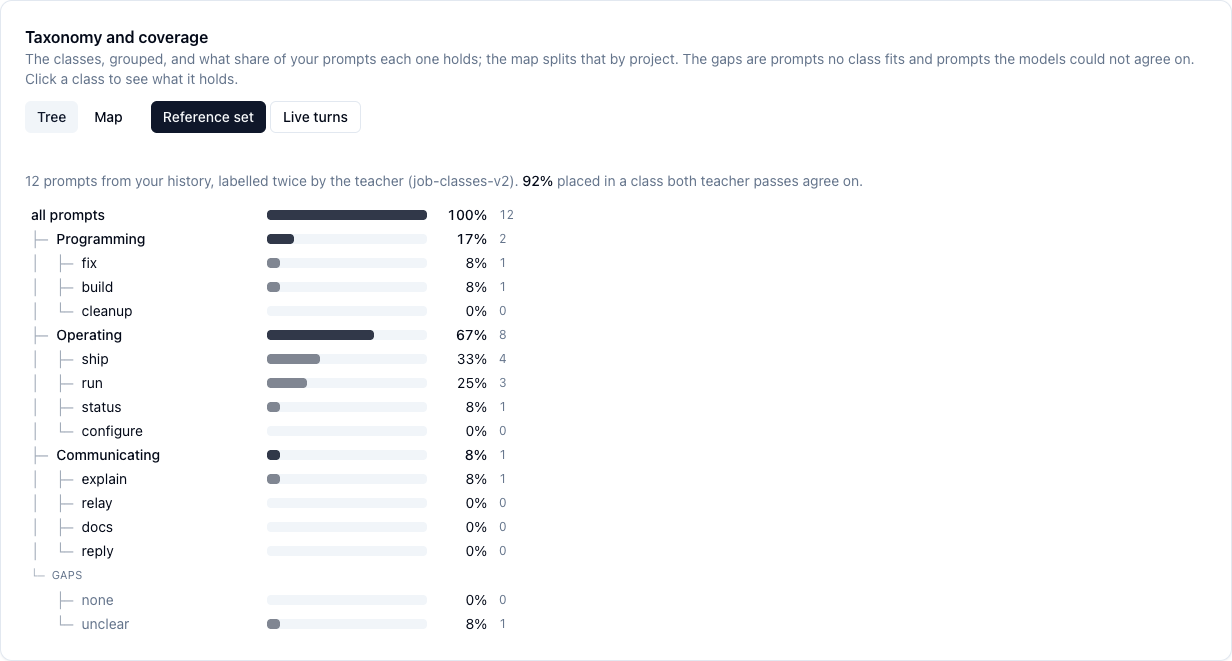
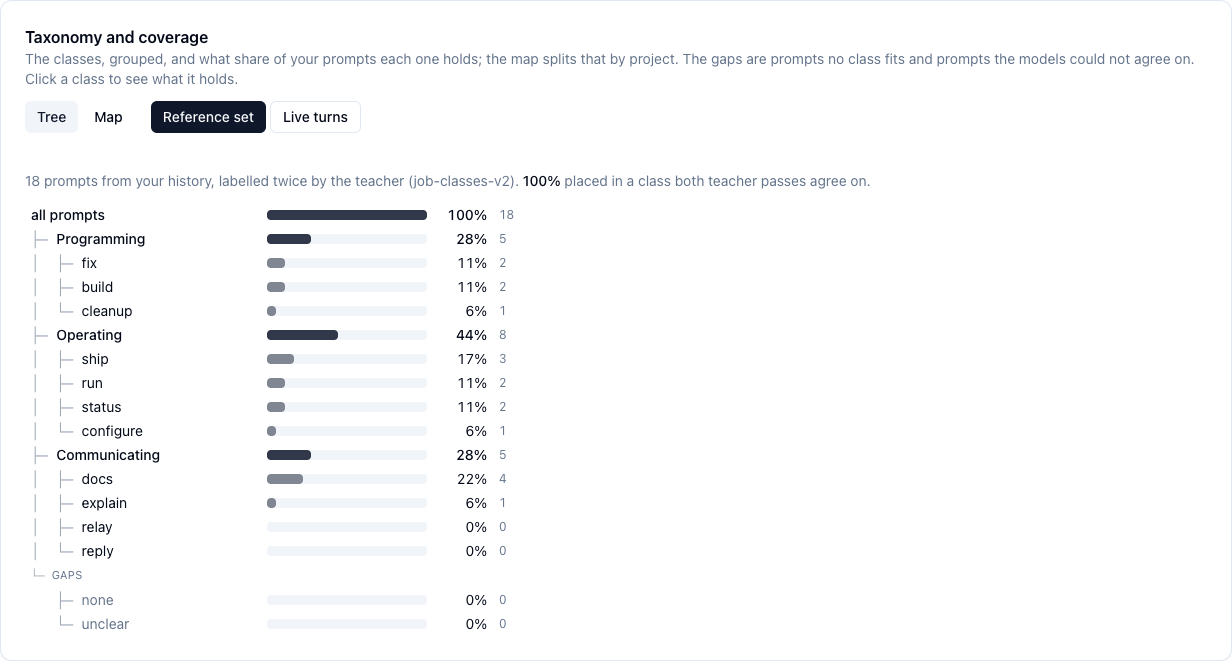
docs(glass): job-classes tutorial, deck slides, glass vs coding
- Tutorial: Job Classes (new Tutorials nav group): switch labelling on, try
  the account, measure, read tree / class / map, the gate, join a team — one
  screenshot per step, taken on a scratch daemon with 18 made-up prompts and a
  real measurement; tenant and repo names replaced.
- Overview deck: two slides after offload — kinds of job, and trials as the
  evidence before a cheaper model (glass reads, coding runs and routes).
- Job Classes: a glass-and-coding table; deep dive gains "For a team's
  maintainer" and "Why glass does not route by class".
- Token Usage: Trials are read-only and only on a machine that also runs coding.

diff --git a/glass/overlay/docs/tutorial-job-classes.md b/glass/overlay/docs/tutorial-job-classes.md
@@ -1,0 +1,146 @@
+# Tutorial: Job Classes
+
+Find out what kind of work you give your agents, in about 15 minutes. You switch labelling
+on, measure your recent prompts, read the result, and join your team's classes. Every
+screenshot below was taken on a test machine with 18 made-up prompts in two projects,
+`shop-api` and `docs-site`. Your own numbers will differ.
+
+**You need:** glass running (`glass doctor` shows ✓), and `gh` logged in to the GitHub host
+of your Copilot account (`gh auth status`). Labelling uses that account, a little per turn.
+
+## 1. Open the Classes tab
+
+```sh
+glass ui
+```
+
+Go to **Token Usage → Classes**. The first card, **Labelling on this machine**, starts off:
+glass sends nothing anywhere until you tick the box.
+
+![Labelling on this machine, switched off: the Copilot account, the student and teacher models, the teacher's share and the Try the account button](images/ui-job-classes-settings.png)
+
+| Field | What it means |
+|---|---|
+| **Copilot account** | Where the labels are asked for: your own Copilot account, on the host your `gh` login reaches. |
+| **Student · teacher** | The cheap model that labels every turn, and the strong one that re-checks some of them. |
+| **Teacher re-checks** | The share of turns the teacher checks too. The gate (step 5) is counted from these. |
+
+## 2. Try the account, then switch labelling on
+
+Click **Try the account**. glass sends one made-up prompt and shows the class the student
+gave it. If your Copilot plan does not offer the models, it says so here. Nothing else is sent.
+
+Then tick **Label my turns**. It applies to the next turn of every agent you start with
+`glass <agent>`. You don't need to restart anything.
+
+![Labelling switched on; Try the account answered: claude-haiku-5.5 labelled a test prompt ship in 0.8 s](images/ui-job-classes-try.png)
+
+The same from a terminal:
+
+```sh
+glass job-classes on
+glass job-classes          # on or off, the account, the taxonomy, what was labelled
+```
+
+## 3. Measure what you already asked
+
+Live labelling starts with your next turn. To see your past work straight away, measure the
+last weeks of prompts:
+
+```sh
+glass job-classes measure --days 28 --max 200
+```
+
+glass reads your prompts from the agents' own transcripts (Claude Code, Copilot CLI, VS
+Code), redacts them, and labels each one three times: twice by the teacher and once by the
+student. The run on the test machine printed:
+
+```text
+taxonomy job-classes-v2; 18 prompts in the last 7 days (claude 18, copilot 0, VS Code 0); labelling the newest 18
+54 calls on https://copilot-api.<tenant>.ghe.com (claude-sonnet-5 twice, claude-haiku-5.5 once), each prompt redacted first
+
+teacher vs itself      kappa 1.00
+student vs teacher     94 % agree, kappa 0.94 (94 % where the teacher was sure)
+largest class          docs 22 %
+reference set          18 prompts, 18 with an agreed class → the Classes tab's coverage map
+```
+
+| Line | Read it as |
+|---|---|
+| teacher vs itself | Whether the classes are sharp enough for the strong model to give the same answer twice. 1.00 is perfect. |
+| student vs teacher | How often the cheap model agrees with the strong one. |
+| reference set | The prompts both teacher passes agree on. The tree and the map in step 4 show these. |
+
+Each prompt costs three calls. Start with a small `--max` to see the cost. A rerun picks up
+where the last one stopped.
+
+## 4. Read what your work consists of
+
+Reload the tab. **Taxonomy and coverage** shows the reference set as a tree: three groups
+(programming, operating, communicating), the classes in each, and the share of your prompts
+each one holds.
+
+![The taxonomy tree: Programming 28 %, Operating 44 %, Communicating 28 %, with each class's share and count](images/ui-job-classes-tree.png)
+
+Click a class to see its test (the rule a prompt must meet to belong to it), the written
+examples, and the prompts of yours it holds:
+
+![The class ship opened: its test, the written examples and three prompts from the history](images/ui-job-classes-class.png)
+
+**Map** splits the same by project, so you can see that, for example, `docs-site` is mostly
+communicating while `shop-api` is mostly operating:
+
+![The map: groups by project, all 18 prompts, shop-api 12 and docs-site 6](images/ui-job-classes-map.png)
+
+Two rows show where the classes don't fit your work:
+
+- **none**: no class fits. If many prompts land here, a class is missing. Tell your team's
+  maintainer (step 6).
+- **unclear**: the teacher's two passes disagreed, so a class's test is not sharp enough.
+
+**Reference set** and **Live turns** switch between the measurement and the turns labelled
+since you switched labelling on.
+
+## 5. Watch the gate
+
+The **Gate** card says whether each class's labels can be trusted yet. A class passes when the
+teacher agrees with at least 90 % of the student's labels for it, over at least 20 turns the
+teacher checked. At first every class is still collecting:
+
+![The gate: every class at 0 / 20 checked turns, collecting](images/ui-job-classes-gate.png)
+
+With the teacher checking 25 % of turns, a class needs about 80 turns of its own kind
+before it can pass. Raise **Teacher re-checks** to get there sooner. That uses more quota.
+
+A label changes nothing about your turn. glass only counts it and shows it.
+
+## 6. Join your team's classes
+
+The classes that ship with glass are a starting point. A team can keep its own in a
+member's learning repo, under `job-classes/`. Ask the team's maintainer for the repo's git
+URL, then join it:
+
+```sh
+glass job-classes join https://<host>/<owner>/<repo>.git
+```
+
+You can also paste the URL in the **Taxonomy** field and click **Join**. glass fetches only
+the `job-classes/` folder, using your normal git login. From then on your turns are labelled
+with the team's classes:
+
+![Taxonomy: your team's, from the team's repo, with Update and Use the default](images/ui-job-classes-team.png)
+
+| Do | Command | In the tab |
+|---|---|---|
+| Get the team's newest version | `glass job-classes pull` | **Update** |
+| Go back to the classes glass ships | `glass job-classes leave` | **Use the default** |
+
+The team's repo holds the classes and their changelog, and never any prompts. Joining
+doesn't send anything to it either: your labels and gate counts stay on your machine.
+
+## What next
+
+- What labelling sends, the gate rule and all commands: [Job Classes → Deep Dive](job-classes.md).
+- Which parts need a coding installation, and why: [Job Classes → glass and coding](job-classes.md#glass-and-coding).
+- Whether a cheaper model can take over a job: **Token Usage → Trials**, on machines where coding
+  is installed ([Token Usage](token-usage.md)).

diff --git a/glass/overlay/docs/overview.md b/glass/overlay/docs/overview.md
@@ -344,7 +344,67 @@ Off, glass is exactly what the previous slides show.
 </p>
 </section>
 
-<section class="overview-slide" id="slide-11" aria-labelledby="overview-compare" markdown="1">
+<section class="overview-slide" id="slide-11" aria-labelledby="overview-classes" markdown="1">
+<div class="overview-copy" markdown="1">
+
+<p class="overview-kicker">Opt-in, off by default / What kind of work was it?</p>
+
+## Sort your prompts into kinds of job {#overview-classes}
+
+Some of what you ask an agent is hard: find out why something broke. Much of it is
+routine: commit and push, is it finished, rerun the tests. One strong model answers all of it.
+
+Switch on **Token Usage → Classes** and glass labels every turn: fix, build, ship, status,
+explain, and so on. A cheap **student** model of **your own Copilot account** labels each
+turn, and a strong **teacher** re-checks a share of them. Prompts are redacted first.
+
+`glass job-classes measure` labels your past prompts as well, so the tree fills in at once.
+
+A team shares its own classes from a git repo: `glass job-classes join <url>`.
+
+</div>
+<figure class="overview-figure" markdown="1">
+
+[![The taxonomy tree of 18 example prompts: Programming 28 %, Operating 44 %, Communicating 28 %, each with its classes.](images/ui-job-classes-tree.png)](images/ui-job-classes-tree.png){: target="_blank" rel="noopener" title="Open full-size screenshot" }
+
+<figcaption>18 made-up prompts, each labelled twice by the teacher. A label changes nothing about the turn.</figcaption>
+</figure>
+<p class="overview-takeaway" markdown="1">
+Know which jobs are routine before you try a cheaper model on them.
+[Tutorial: Job Classes](tutorial-job-classes.md)
+</p>
+</section>
+
+<section class="overview-slide" id="slide-12" aria-labelledby="overview-trials" markdown="1">
+<div class="overview-copy" markdown="1">
+
+<p class="overview-kicker">Where coding runs too / Can a cheaper model do it?</p>
+
+## Evidence before a cheaper model {#overview-trials}
+
+A **trial** runs a cheaper model beside the current one on a share of a background job's
+real calls. A strong judge compares each pair of answers blind: details kept, nothing invented.
+
+| | glass | coding |
+|---|---|---|
+| Label, measure, join a team | ✅ | ✅ |
+| Trials (**Token Usage → Trials**) | read, where coding runs too | start, accept |
+| Route a proven kind of job | — | ✅ |
+
+</div>
+<figure class="overview-figure" markdown="1">
+
+[![A trial of claude-haiku-5.5 against claude-sonnet-5 on one background job: 16 of 20 pairs judged, at least as good in 56 %, details kept 87 %, so it fails.](images/ui-trials.png)](images/ui-trials.png){: target="_blank" rel="noopener" title="Open full-size screenshot" }
+
+<figcaption>A real trial that failed: the cheaper answer was at least as good in only 56 % of pairs. Nothing switched.</figcaption>
+</figure>
+<p class="overview-takeaway" markdown="1">
+No model gets cheaper without evidence from your own calls.
+[Job Classes → glass and coding](job-classes.md#glass-and-coding)
+</p>
+</section>
+
+<section class="overview-slide" id="slide-13" aria-labelledby="overview-compare" markdown="1">
 <div class="overview-copy" markdown="1">
 
 <p class="overview-kicker">Question 4 / Which setup fits my task?</p>
@@ -378,7 +438,7 @@ Try it on your next real task: `glass <agent>`, then `glass ui`.
 </p>
 </section>
 
-<section class="overview-slide" id="slide-12" aria-labelledby="overview-built" markdown="1">
+<section class="overview-slide" id="slide-14" aria-labelledby="overview-built" markdown="1">
 <div class="overview-copy" markdown="1">
 
 <p class="overview-kicker">Behind the scenes / How glass is made</p>

diff --git a/glass/overlay/docs/_tiers/job-classes.deep.md b/glass/overlay/docs/_tiers/job-classes.deep.md
@@ -60,6 +60,42 @@ last one stopped.
 | `glass job-classes join <git URL>` | use a team's taxonomy (its learning repo's `job-classes/`) |
 | `glass job-classes pull` / `leave` | update the team's taxonomy / go back to the shipped default |
 
+## For a team's maintainer
+
+A team's classes live in one member's **learning repo**, the git repo coding keeps a
+member's shared learning in, under `job-classes/`. Someone who runs coding sets it up once:
+
+1. Declare the team and its repos in `~/.coding/teams.yaml`, or in coding's dashboard (**Teams**).
+2. `coding job-classes init --team <id>` writes `job-classes/taxonomy.yaml` and its
+   `CHANGELOG.md` into that learning repo; `coding sync --push` publishes it.
+3. Give the repo's git URL to everyone who runs glass. They need read access to it, nothing
+   more; `glass job-classes join <url>` clones only `job-classes/`.
+4. To grow the classes: members who run coding propose (`coding job-classes propose --team <id>`),
+   and the maintainer folds the proposals into a new version (`coding job-classes fold --team <id>`,
+   `--dry-run` first) and pushes it. glass users get it with `glass job-classes pull` or
+   **Update**.
+
+The repo never holds prompts: only the classes, their changelog, proposals (classes the
+teacher drafted, with examples it wrote itself) and, from replays, evidence files with
+counts and model names.
+
+## Why glass does not route by class
+
+coding's proxy can send the rest of a turn to a cheaper model once that turn's class has
+earned it (the **class floor**). Three things together count as earned: the class has passed
+its gate; a replay has shown that the cheaper model answers this class as well, recorded in
+the team repo as `job-classes/evidence/<class>.json`; and the same provider serves the
+cheaper model in a lower band. glass doesn't apply the floor:
+
+- glass sends every call to the model the agent chose. It changes a call only when you
+  switch [offload](offload.md) on, and then only to send easy calls to your own endpoint.
+- Replays run each past turn in a sandbox, in the agent that ran it, on the current model
+  and on the cheaper one. They need coding's recordings of those turns, so the evidence is
+  always produced on a coding machine.
+
+A glass user who joined the team repo gets its `evidence/` folder along with the classes,
+but nothing in glass reads it.
+
 ## Files
 
 | Path | Content |

diff --git a/glass/overlay/docs/job-classes.md b/glass/overlay/docs/job-classes.md
@@ -3,6 +3,10 @@
 What kind of job each prompt you give an agent is — fix, build, ship, status, explain, … —
 labelled in the background with your own Copilot account. Opt-in, off by default.
 
+!!! tip "First time?"
+    [Tutorial: Job Classes](tutorial-job-classes.md) walks through it step by step, with a
+    screenshot of each step: switch it on, measure, read the tree, join your team.
+
 === "⚡ Quick (~3 min)"
 
     ## What it is for
@@ -42,9 +46,30 @@ labelled in the background with your own Copilot account. Opt-in, off by default
 
     A team can share its own classes from a member's learning repo (folder `job-classes/`).
     Join it with the repo's git URL — in the tab, or `glass job-classes join <url>`;
-    `glass job-classes pull` updates it.
+    `glass job-classes pull` updates it. The repo itself is set up by someone who runs
+    coding (see below).
 
-    **Next:** what is sent, the commands, and how the gate is counted — open the deep dive.
+    ## glass and coding
+
+    Most people only install glass, and it labels, measures and shows on its own. Building
+    a team's classes, trials and routing by class run in coding:
+
+    | | glass alone | needs coding |
+    |---|---|---|
+    | Label your turns (student + teacher, your Copilot account) | ✅ | |
+    | Measure your past prompts; tree, map, gate | ✅ | |
+    | Join and update a team's classes | ✅ | |
+    | Create a team's classes, propose and fold new ones | | ✅ `coding job-classes init` / `propose` / `fold` |
+    | Trials: can a cheaper model take over a background job? | read-only, on a machine that also runs coding | ✅ started and accepted in coding's dashboard |
+    | Replay a class's past turns on a cheaper model; record the evidence | | ✅ `coding job-classes replay …` |
+    | Route a proven class to a cheaper model (the class floor) | ✗ glass shows the label, the agent keeps its model | ✅ for pi, opencode and Copilot CLI |
+    | Offload easy calls to your own endpoint | ✅ [Offload](offload.md) | |
+
+    Labels and gate counts stay on the machine that made them, in glass and in coding alike.
+    What a team shares is its classes and, from coding, the evidence of replays.
+
+    **Next:** what is sent, the commands, how the gate is counted, and what a team's
+    maintainer sets up — open the deep dive.
 
 === "📚 Deep Dive (full)"
 

diff --git a/glass/overlay/docs/token-usage.md b/glass/overlay/docs/token-usage.md
@@ -16,8 +16,8 @@ How many tokens your agents used — totals, trends and every single call.
     | Overview | Which agent and which model used the most? |
     | Evolution | When did usage happen, and how did it grow? |
     | Cost | What did each account cost this month, and where is it heading? |
-    | Trials | Can a cheaper model take over a background job? (where coding is installed) |
-    | Classes | What kind of job was each turn? ([Job classes](job-classes.md), opt-in) |
+    | Trials | Can a cheaper model take over a background job? Read-only, on a machine that also runs coding ([glass and coding](job-classes.md#glass-and-coding)) |
+    | Classes | What kind of job was each turn? ([Job classes](job-classes.md), opt-in; [tutorial](tutorial-job-classes.md)) |
     | Recent Calls | What exactly did each call cost? |
 
     ![Token Usage overview](images/ui-token-usage-overview.png)

diff --git a/glass/overlay/docs/_tiers/token-usage.deep.md b/glass/overlay/docs/_tiers/token-usage.deep.md
@@ -72,7 +72,7 @@ older model of the cheap family can cost several times the newest one. glass can
 coding's routing, so each suggestion says where to make the change; coding's own dashboard
 shows the same list, and starts a **trial** from it rather than switching outright.
 
-**Trials** (where coding is installed) show whether a cheaper model can take over a
+**Trials** (on a machine that also runs coding: glass reads them next to coding's token DB) show whether a cheaper model can take over a
 background job: for a few days it runs beside the current model on a share of the job's
 real calls, and a strong judge compares each pair of answers blind, for details kept and
 nothing invented. An automatic trial tries several cheaper models in turn, cheapest first,
